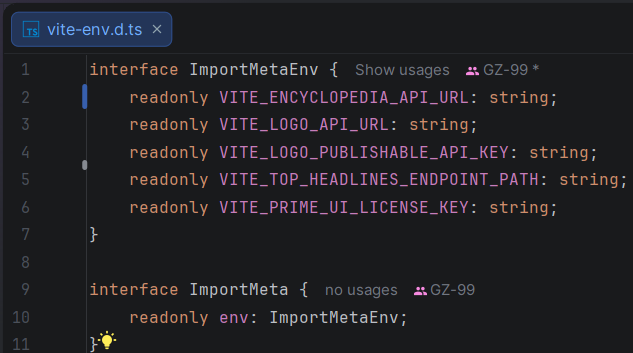
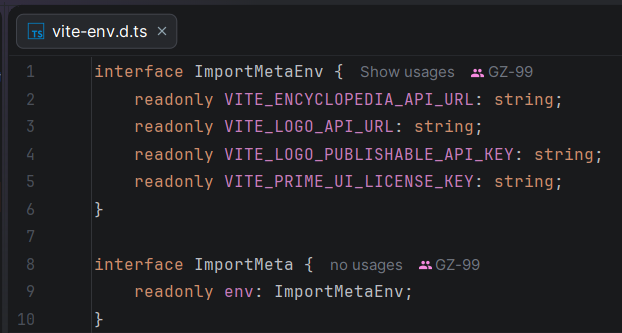
docs: add new images and update manual 9

diff --git a/manual/MANUAL.md b/manual/MANUAL.md
@@ -139,6 +139,22 @@ Finalmente, en la carpeta "presentation/components", desarrollas los archivos de
 * Finalmente, se desarrolla el archivo "result-list.vue", haces un copia y pega y cambias algunos textos:<br>
 <img src="imagenes/presentation2.png">
 
+### Universities (BC Alternativo)
+
+En caso de que te pidan cosas como esto:
+
+<img src="imagenes/caso-alternativo.png">
+
+Y tienes atributos como estos:
+
+<img src="imagenes/quicktype-alternativo.png">
+
+Entonces, haz algo como esto:
+
+<img src="imagenes/entity-alternativo.png">
+
+<img src="imagenes/item-alternativo.png">
+
 ## TERMINAR PROYECTO
 
 ### Shared
